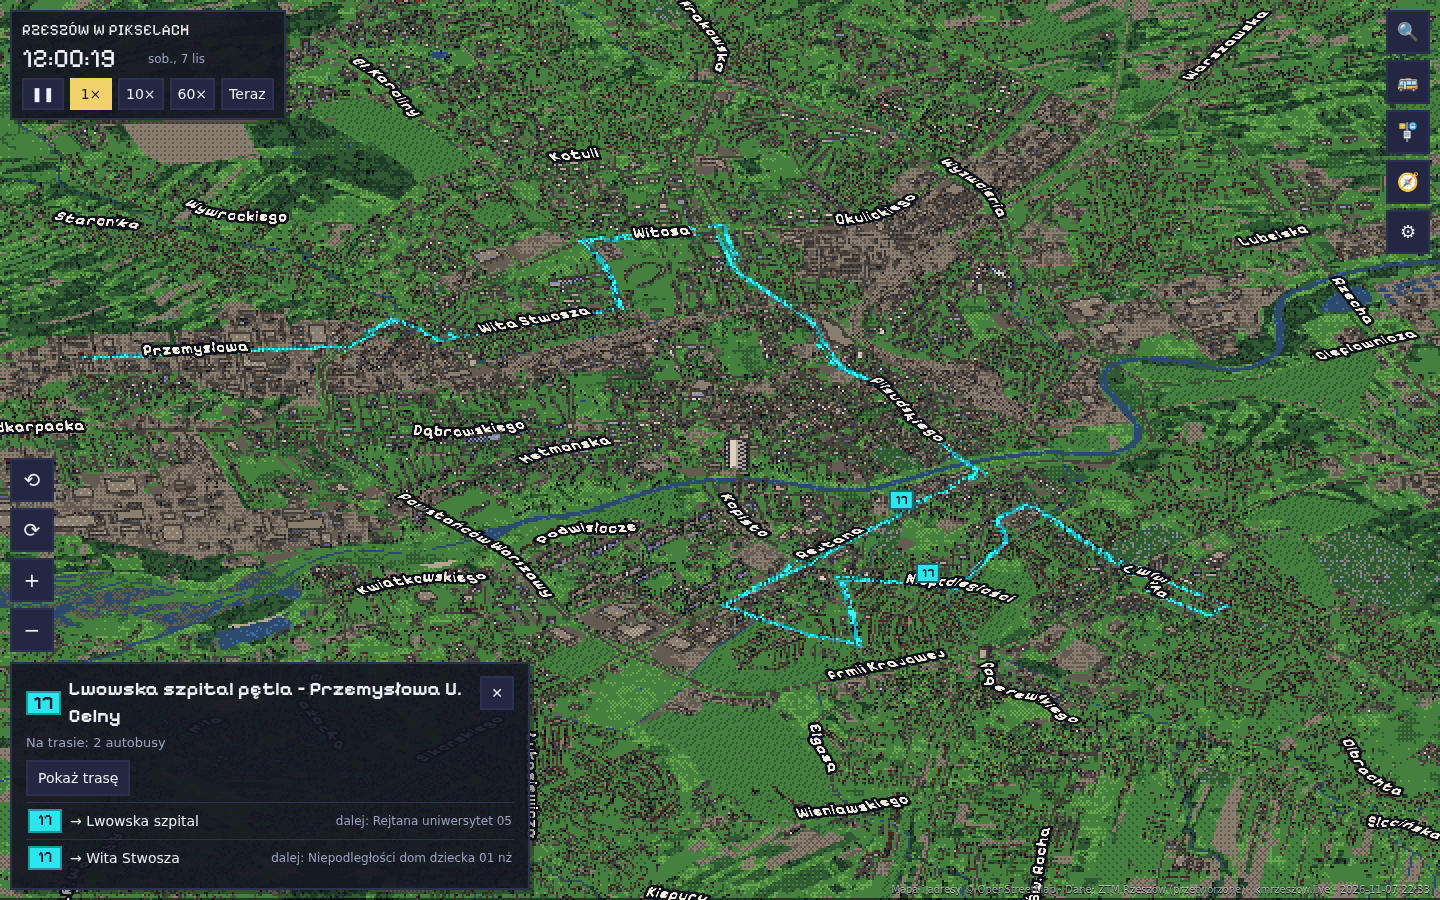
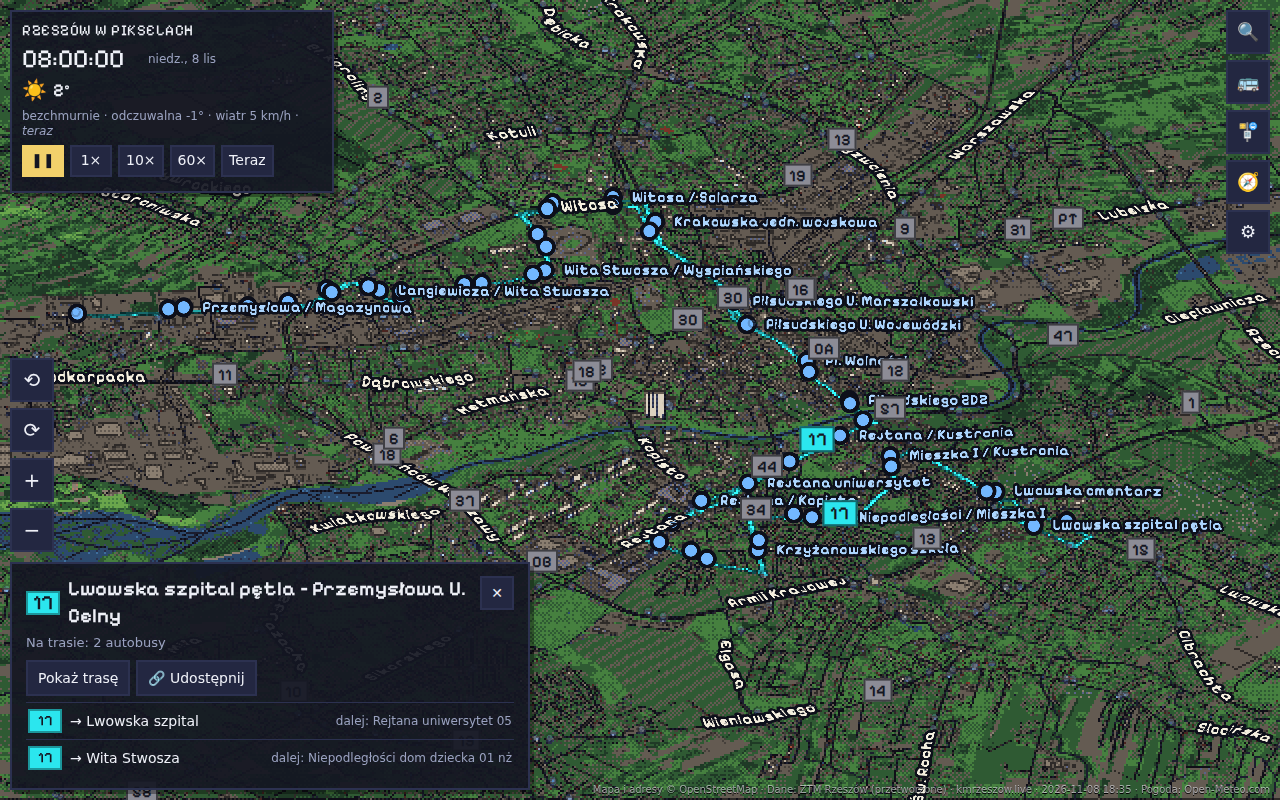
Refresh README screenshots

diff --git a/README.md b/README.md
@@ -26,7 +26,7 @@ Budynki, woda, teren, drogi i tory pochodzą z OpenStreetMap.
 
 **Telefon:** ten sam widok na wąskim ekranie.
 
-Screeny pokazują rozkład i dane OSM z 7 listopada 2026.
+Screeny pokazują rozkład i dane OSM z 2026-11-08.
 
 ## Pliki
 | Plik | Co robi |
